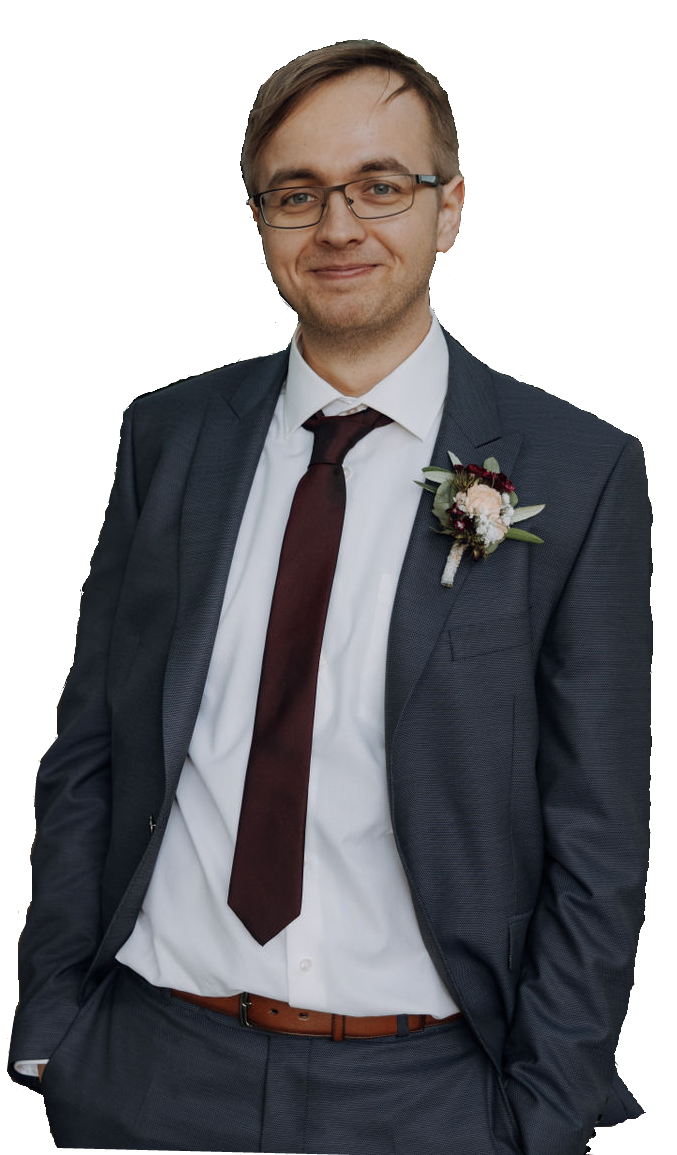
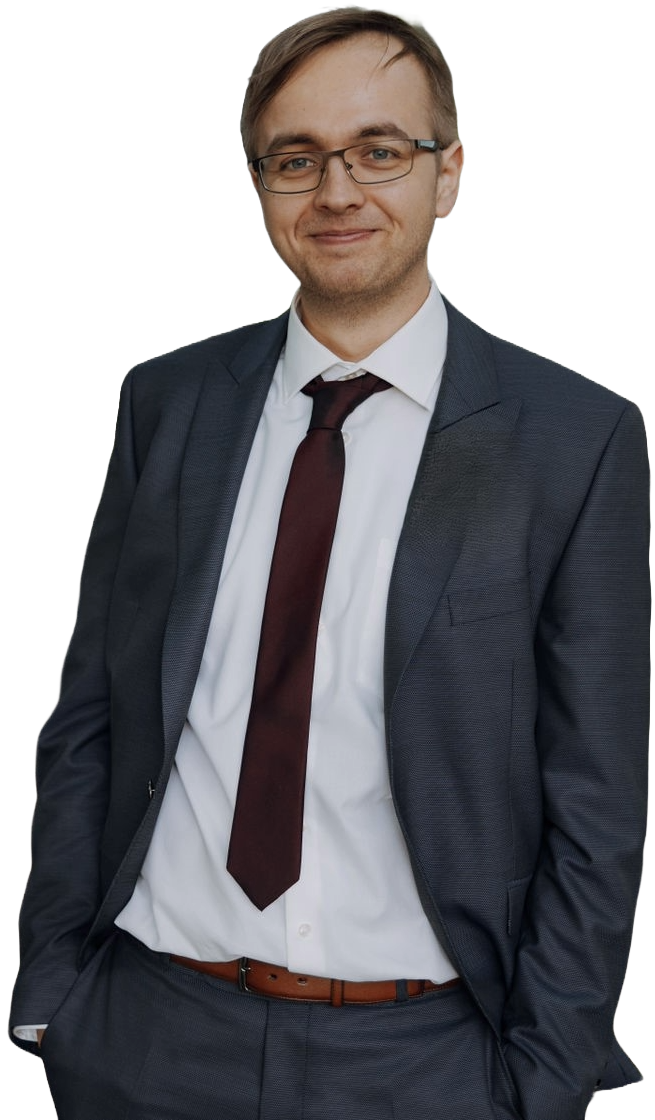
added picture

diff --git a/src/app/landing-page/landing-page.component.scss b/src/app/landing-page/landing-page.component.scss
@@ -87,14 +87,18 @@ app-social-media {
     left:0;
     bottom:0px;
     height:100vh;
-    width:100vw;
+    width:80vw;
+    display:flex;
+    justify-content: flex-start;
+    object-fit: cover;
 }
 
 .me-img {
     position: absolute;
-    bottom: 60px;
+    bottom: 116px;
     z-index: 900;
-    transform: rotate(-0.8deg);
+    margin-left:50px;
+    object-fit: cover;
 }
 
 @media(max-width: 1650px){
@@ -119,12 +123,14 @@ app-social-media {
     }
 }
 
-@media(max-width: 1180px){
+@media(max-width:1250px){
     .me-img{
         transform:scale(0.6);
         bottom:-116px;
     }
+}
 
+@media(max-width: 1180px){
     .name{
         left:20%;
         font-size:56px;
@@ -204,6 +210,11 @@ app-social-media {
             font-size:60px;
         }
     }
+
+    .me-img{
+        left:0;
+        margin-left:0;
+    }
 }
 
 @media(max-width:610px){
@@ -212,5 +223,30 @@ app-social-media {
         div{
             font-size:40px;
         }
+    }
+}
+
+@media(max-width:550px){
+    .me-img{
+        left:-50px;
+    }
+}
+
+@media(max-width:500px){
+    .me-img{
+        left:-100px;
+    }
+}
+
+@media(max-width:450px){
+    .me-img{
+        transform: scale(0.4);
+        bottom:-220px;
+    }
+}
+
+@media(max-width:390px){
+    .me-img{
+        left:-150px;
     }
 }

diff --git a/src/app/landing-page/landing-page.component.html b/src/app/landing-page/landing-page.component.html
@@ -24,9 +24,9 @@
 
             </div>
         </div>
-        <!-- <div class="me">
-            <img src="./assets/img/Ich.png" class="me-img">
-        </div> -->
+        <div class="me">
+            <img src="./assets/img/ich.png" class="me-img">
+        </div>
         <app-social-media class="socialMediaContainer"></app-social-media>
     </div>
 </section>

diff --git a/src/app/contact-me/contact-me.component.scss b/src/app/contact-me/contact-me.component.scss
@@ -42,6 +42,10 @@ section {
         font-size: 32px;
         color: #5988FF;
     }
+    p{
+        margin-left: 15px;
+        margin-right: 15px;
+    }
 }
 
 .right-container {
@@ -270,6 +274,7 @@ section {
     border: 2px solid red;
     border-radius: 10px;
     padding: 3px;
+    margin-bottom:15px;
 }
 
 .sendMailsucceed {
